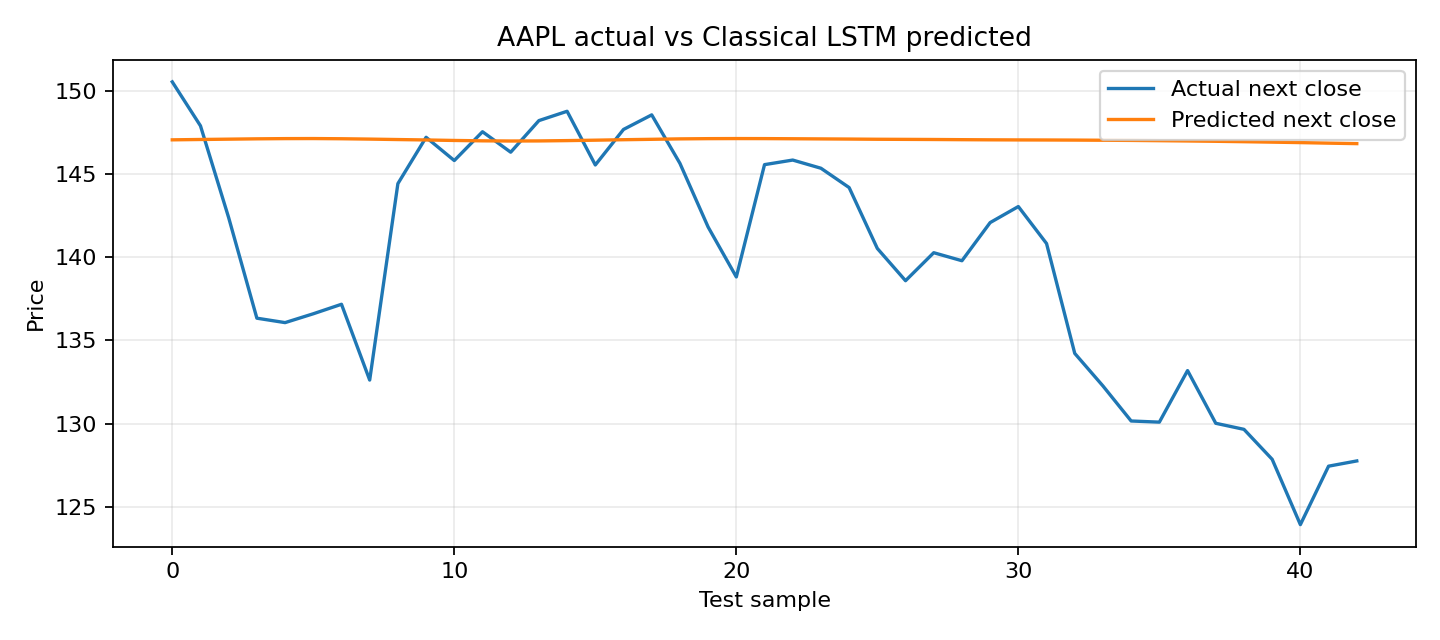
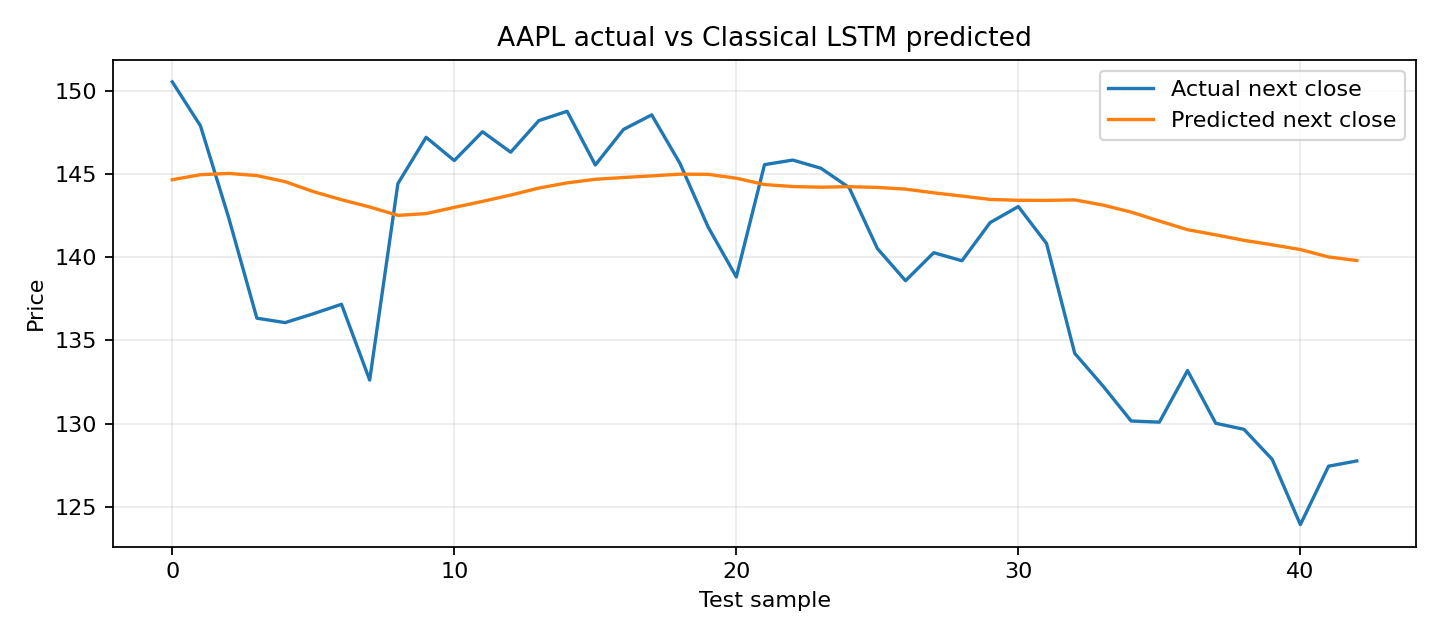
fix(pipeline): output saving, rerun

diff --git a/custom_qnn_financial_pipeline.py b/custom_qnn_financial_pipeline.py
@@ -76,6 +76,7 @@ except Exception:
 DEFAULT_NUM_QUBITS = 5
 DEFAULT_NUM_LAYERS = 1
 DEFAULT_OUTPUT_DIR = Path("output/qnn_pipeline")
+DEFAULT_MODEL_OUTPUT_DIR = DEFAULT_OUTPUT_DIR / "models"
 PROJECT_FEATURES = [
     "Open",
     "High",
@@ -930,6 +931,26 @@ def count_torch_parameters(model: nn.Module) -> int:
     return sum(parameter.numel() for parameter in model.parameters() if parameter.requires_grad)
 
 
+def save_model_artifact(
+    model: nn.Module,
+    output_dir: Path | str = DEFAULT_MODEL_OUTPUT_DIR,
+    model_name: str = "model",
+    metadata: dict[str, object] | None = None,
+) -> Path:
+    """Persist a trained PyTorch model and metadata to disk."""
+
+    output_path = Path(output_dir)
+    output_path.mkdir(parents=True, exist_ok=True)
+    artifact_path = output_path / f"{model_name}.pt"
+    payload = {
+        "model_name": model_name,
+        "state_dict": {key: value.detach().cpu().clone() for key, value in model.state_dict().items()},
+        "metadata": metadata or {},
+    }
+    torch.save(payload, artifact_path)
+    return artifact_path
+
+
 def evaluate_naive_previous_close(dataset: FinancialDataset) -> dict[str, object]:
     """Naive baseline: next close equals previous close."""
 
@@ -961,11 +982,11 @@ class LSTMRegressor(nn.Module):
 
 def train_lstm_baseline(
     dataset: FinancialDataset,
-    epochs: int = 20,
+    epochs: int = 30,
     batch_size: int = 32,
     learning_rate: float = 1e-3,
-    hidden_size: int = 100,
-    num_layers: int = 5,
+    hidden_size: int = 32,
+    num_layers: int = 1,
     seed: int = 42,
     val_ratio: float = 0.15,
     patience: int = 5,
@@ -1057,6 +1078,20 @@ def train_lstm_baseline(
         "Parameter count": count_torch_parameters(model),
         "Device": str(device),
     }
+    model_path = save_model_artifact(
+        model,
+        output_dir=DEFAULT_MODEL_OUTPUT_DIR,
+        model_name="lstm_regressor",
+        metadata={
+            "symbol": dataset.symbol,
+            "input_size": dataset.train_seq_x.shape[-1],
+            "hidden_size": hidden_size,
+            "num_layers": num_layers,
+            "epochs": epochs,
+            "seed": seed,
+        },
+    )
+    history["model_path"] = str(model_path)
     return model, history
 
 
@@ -1168,6 +1203,19 @@ def train_standalone_qnn(
         "Circuit depth": circuit.depth(),
         "Device": str(device),
     }
+    model_path = save_model_artifact(
+        model,
+        output_dir=DEFAULT_MODEL_OUTPUT_DIR,
+        model_name="standalone_qnn",
+        metadata={
+            "symbol": dataset.symbol,
+            "num_qubits": circuit.num_qubits,
+            "input_dim": dataset.train_qnn_x.shape[1],
+            "epochs": epochs,
+            "seed": seed,
+        },
+    )
+    history["model_path"] = str(model_path)
     return model, history
 
 
@@ -1326,6 +1374,20 @@ def train_hybrid_qnn1(
         "Circuit depth": circuit.depth(),
         "Device": str(device),
     }
+    model_path = save_model_artifact(
+        model,
+        output_dir=DEFAULT_MODEL_OUTPUT_DIR,
+        model_name="hybrid_qnn1",
+        metadata={
+            "symbol": dataset.symbol,
+            "sequence_feature_dim": dataset.train_seq_x.shape[-1],
+            "qnn_input_dim": dataset.train_qnn_x.shape[1],
+            "hidden_size": hidden_size,
+            "epochs": epochs,
+            "seed": seed,
+        },
+    )
+    history["model_path"] = str(model_path)
     return model, history
 
 
